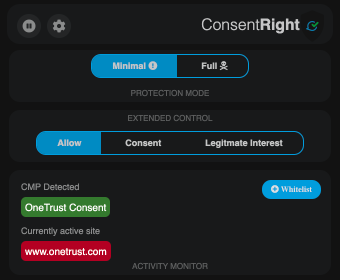
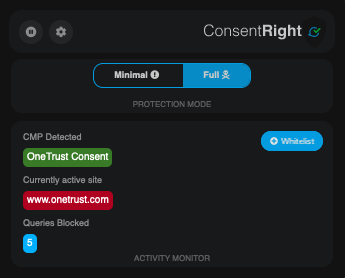
0.7.4: add query alert to popup

diff --git a/javascript/cmp-handler.js b/javascript/cmp-handler.js
@@ -1,8 +1,7 @@
 'use strict'
 
 const CMPHandler = function() {
-    // let Browser = chrome || browser,utils;
-	// utils = Browser.extension.getBackgroundPage().utils;
+    //let Browser = chrome || browser;
 
 	const Blocker = {
 		list: [
@@ -17,12 +16,14 @@ const CMPHandler = function() {
 			"(allow,QuantCast CMP,.qc-cmp2-summary-buttons button[mode='primary'])",
 			"(allow,QuantCast CMP,.qc-cmp2-buttons-desktop button[mode='primary'])",
 			"(allow,Stack Exchange Cookie,.js-accept-cookies)",
+			"(allow,IEEE Cookie Banner,.cc-compliance)",
 
 			/* Consent Toggles */ 
 			"(consent,OneTrust Consent,label.ot-switch)",
 			"(consent,QuantCast CMP,.qc-cmp2-toggle-switch button[aria-label='Consent toggle'])",
 			"(consent,QuantCast CMP,.qc-cmp2-consent-list)",
 			"(consent,Stack Exchange Cookie,.s-toggle-switch)",
+			"(consent,IEEE Cookie Banner,.cc-window)",
 			
 			/* Legitmate Interests */	
 			// '(li,QuantCast CMP,.qc-cmp2-list-item-legitimate div[class="qc-cmp2-toggle-switch"])',
@@ -66,16 +67,27 @@ const CMPHandler = function() {
 		},
 
 		hide : function(provider) {
-			let content = '';
+			let content = '', level;
+			// console.log('cmp handler level1 = ' + level)
+			// Browser.onmessage(function(response) {
+			// 	console.log("something happening from the extension");
+			// });
+			// // Browser.extension.sendRequest({action: "cmpMode"}, function(message) { //request
+			// // 	console.log(message.level);           //receive response
+			// //   });
+			// // 	if(message.action == 'cmpMode') level = message.level;
+			// // });
+			// console.log('cmp handler level2 = ' + level)
 			for (const item of this.list)	{
 				let rule = item.match(this.ruleMatcher);
 				//console.log(provider);
 				if (rule  && rule[2] == provider) {
 					switch(rule[1])	{
 						case 'full':	{
-							//if (level == 1 || level == 3 || level == 5 || level == 7)
+							//if (level == 0) {
 							content += this.content.remove(rule[3].trim());
 							content += this.content.scroll('body');
+							//}
 						}
 						break;
 						case 'allow': {

diff --git a/javascript/popup-handler.js b/javascript/popup-handler.js
@@ -160,22 +160,20 @@ const PopupHandler = function () {
     }
 
     function counterStats(tabId) {
-        let crTabstmp = Browser.extension.getBackgroundPage().crTabs;
-        //console.log('crTabstmp[tabId][0]');
-        if (tabId in crTabstmp) {
-            // document.querySelector('.blocked-nos').innerText = crTabstmp[tabId].length;
-            //console.log(crTabstmp[tabId][0]);
-            document.querySelector('.blocked-cmp').innerText = crTabstmp[tabId][0];
-        } 
-        // else {
-        //     document.querySelector('.blocked-nos').innerText = 'None';
-        // }
+        let crTabsTemp = Browser.extension.getBackgroundPage().crTabs, currTabArr;
+
+        if (tabId in crTabsTemp) {
+            currTabArr = crTabsTemp[tabId];
+            document.querySelector('.blocked-cmp').innerText = currTabArr[0];
+            document.querySelector('.blocked-nos').innerText = currTabArr[currTabArr.length -1];
+        }
     }
 
     function switchModeToFull() {
         Browser.runtime.sendMessage({action: 'cmpMode', level : 0}, utils.noop);
         Browser.extension.getBackgroundPage().changeMode(0);
     }
+
     function toggleWhitelist(status) {
         document.querySelector('#add-wlist').style.display = (status === true) ? 'none' : '';
         document.getElementById('toggle-off').style.display = (status === true) ? 'none' : '';

diff --git a/javascript/background.js b/javascript/background.js
@@ -37,9 +37,14 @@ function removewList(url) {
 function updateBadge(mcount, tabId) {
     Browser.browserAction.setBadgeBackgroundColor({color: "green",tabId: tabId});
     Browser.browserAction.setBadgeText({text: String(mcount),tabId: tabId});
+    setTimeout(() => {
+        if(tabId in crTabs) {
+        crTabs[tabId].push(mcount);
+    }}, 2000);
 }
 
 function crAddTab(tabId, rootDomain) {
+    console.log(crTabs);
     if(tabId in crTabs) {
         if(crTabs[tabId].indexOf(rootDomain) === -1){crTabs[tabId].push(rootDomain);}
     } 
@@ -77,7 +82,8 @@ Browser.runtime.onMessage.addListener(function(message, sender, sendResponse) {
                             break;
         case 'cmpBlockedOnSite': 
                             {
-                            crAddTab(sender.tab.id, message.cmpName);
+                            setTimeout(() => {crAddTab(sender.tab.id, message.cmpName);},2000);
+                            //console.log(message.numBlocked);
                             if (crSettings['crCounter']) {updateBadge(message.numBlocked, sender.tab.id);}
                             sendResponse({action: 'ok'});
                             }

diff --git a/javascript/content.js b/javascript/content.js
@@ -12,10 +12,15 @@ const ContentJS = function () {
             document.head.appendChild(script);
         }
     });
-
     document.addEventListener('cmpBlocked', (event) => {
         Browser.runtime.sendMessage({action: 'cmpBlockedOnSite', 
         cmpName : event.detail.cmpName, 
         numBlocked: event.detail.numBlocked}, 
         () => {});}, false);
+
+    // document.addEventListener('getLevel', (event) => {
+    //     Browser.runtime.sendMessage({action: 'cmpBlockedOnSite', 
+    //     cmpName : event.detail.cmpName, 
+    //     numBlocked: event.detail.numBlocked}, 
+    //     () => {});}, false);
 }();

diff --git a/popup.html b/popup.html
@@ -50,8 +50,8 @@
 			<span class='blocked-cmp'>No Rule Found</span>
 			<div class='alt-heading'>Currently active site</div>
 			<span class='active-url'></span>
-			<!-- <div class='alt-heading'>Queries Blocked</div>
-			<span class='blocked-nos'>None</span> -->
+			<div class='alt-heading'>Queries Blocked</div>
+			<span class='blocked-nos'>None</span>
 			<button id='add-wlist' class="wlist-btn"><i class="fa fa-plus-circle"> Whitelist</i></button>
 			<button id='rm-wlist' class="wlist-btn"><i class="fa fa-minus-circle"> Blacklist</i></button>
 			<div class='section-title'>ACTIVITY MONITOR</div>
